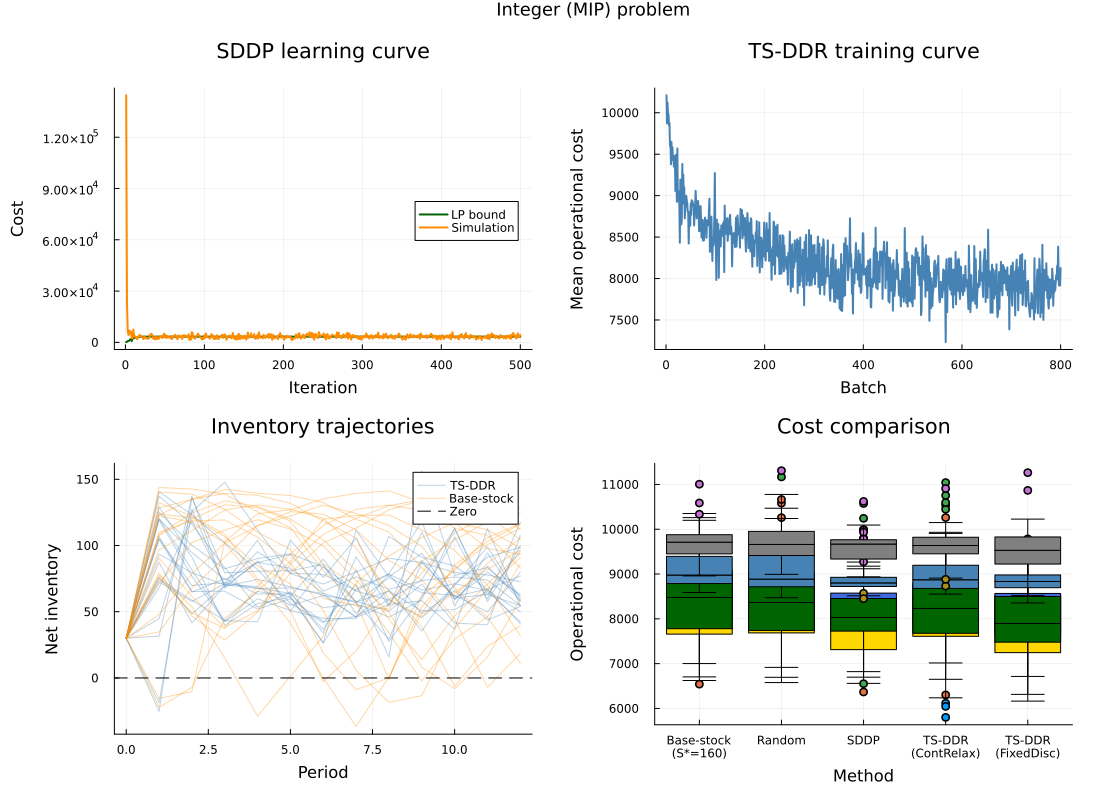
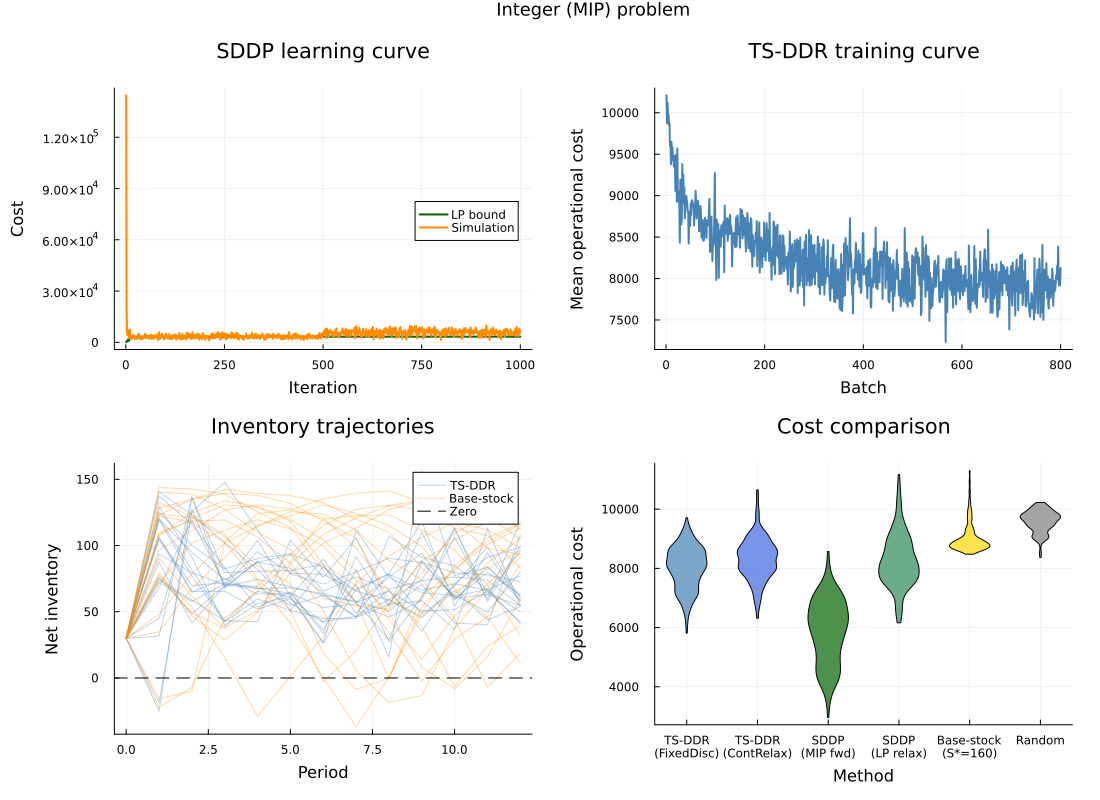
update inventory

Changed region(s): [[0.5564, 0.5938, 0.9891, 0.9688], [0.0927, 0.4062, 0.4945, 0.4688], [0.6182, 0.8438, 0.6491, 0.875]]

diff --git a/examples/inventory_control/README.md b/examples/inventory_control/README.md
@@ -105,11 +105,14 @@ Figures are written to `docs/src/assets/`:
 - **TS-DDR** learns an ex-ante order target from inventory and demand history,
   using the same time-invariant neural policy at every period.
 - **SDDP** uses a PAR(1) demand approximation in a 24-stage order/demand graph.
-  For the integer case, it uses LP relaxation with integer rounding at rollout.
+  For the integer case, it uses `AlternativeForwardPass`: the forward pass solves
+  true MIP subproblems (`z ∈ {0,1}`), while the backward pass uses LP relaxation
+  (`z ∈ [0,1]`) to compute cuts with valid duals.
 - **Base-stock** is a tuned constant order-up-to policy.
 - **Random** is an untrained ex-ante neural policy.
 
 The expected qualitative result is:
 - **Relaxed**: SDDP dominates (near-optimal for convex problems with Markov noise).
 - **Integer**: TS-DDR dominates (handles MIP subproblems natively via integer
-  postprocessing strategies, while SDDP's LP relaxation underestimates fixed costs).
+  postprocessing strategies, while SDDP with `AlternativeForwardPass` generates
+  cuts at MIP-realistic trial points but still relies on LP duals for cuts).